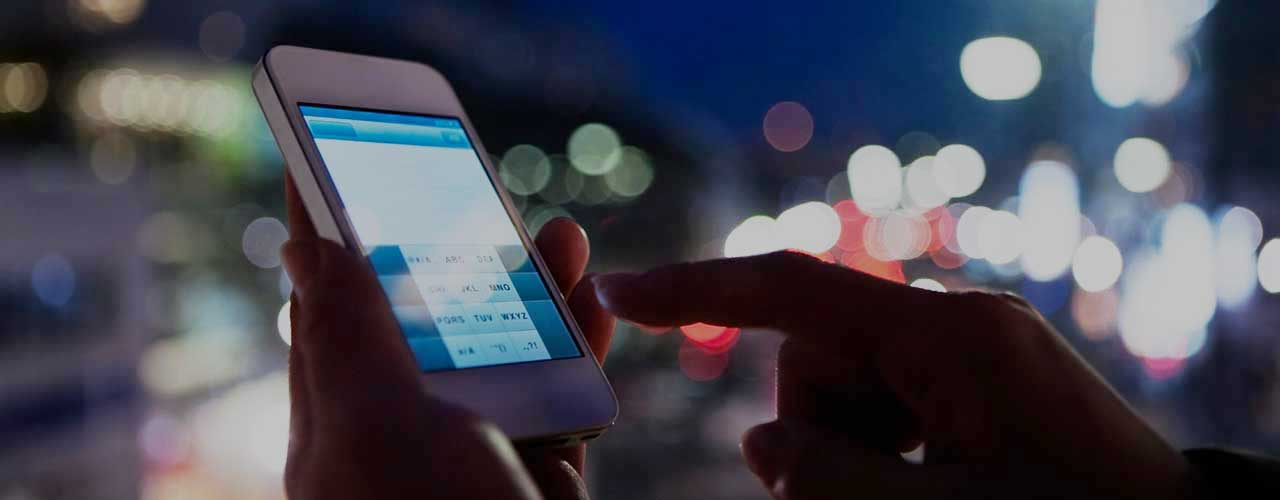
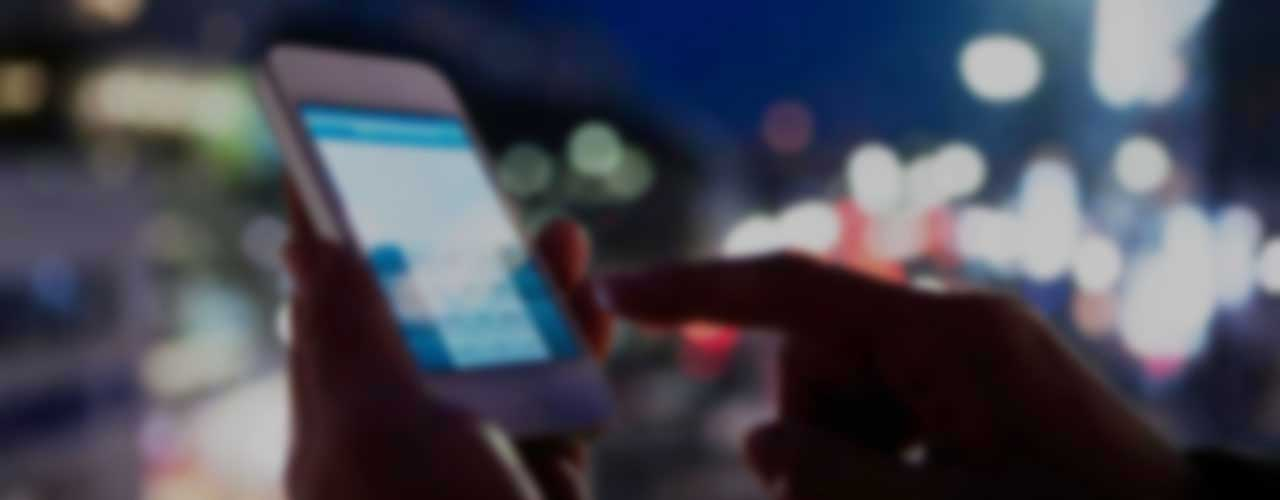
Put blur into pictures and remove from css
Put blur into pictures and remove from css

diff --git a/_sass/3-customs/_intro.sass b/_sass/3-customs/_intro.sass
@@ -27,14 +27,16 @@
   .intro
 
     .intro-text
-      bottom: 40%
+      bottom: 30%
       padding: 0px 30px
 
     .intro-text h2
       font-size: 1.4rem
+      line-height: 1
 
     .intro-text p
       font-size: 0.9rem
+      line-height: 1.2
 
     p.note
       font-size: 0.6rem

diff --git a/_sass/3-customs/_landing.sass b/_sass/3-customs/_landing.sass
@@ -12,7 +12,7 @@
     left: 0
     min-width: 100%
     height: 500px
-    filter: blur(7px)
+    //filter: blur(7px)
 
   .landing-control
     position: absolute
